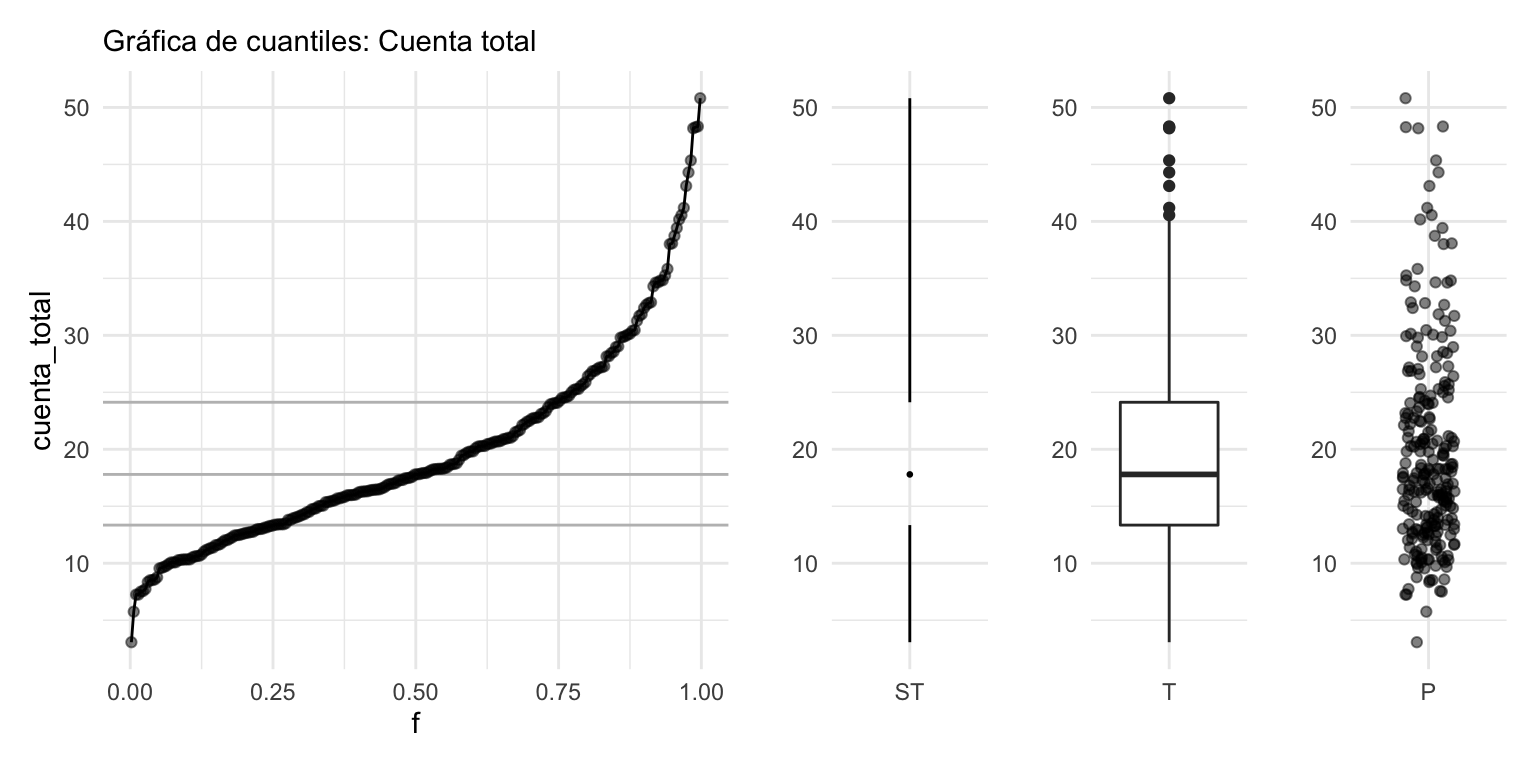
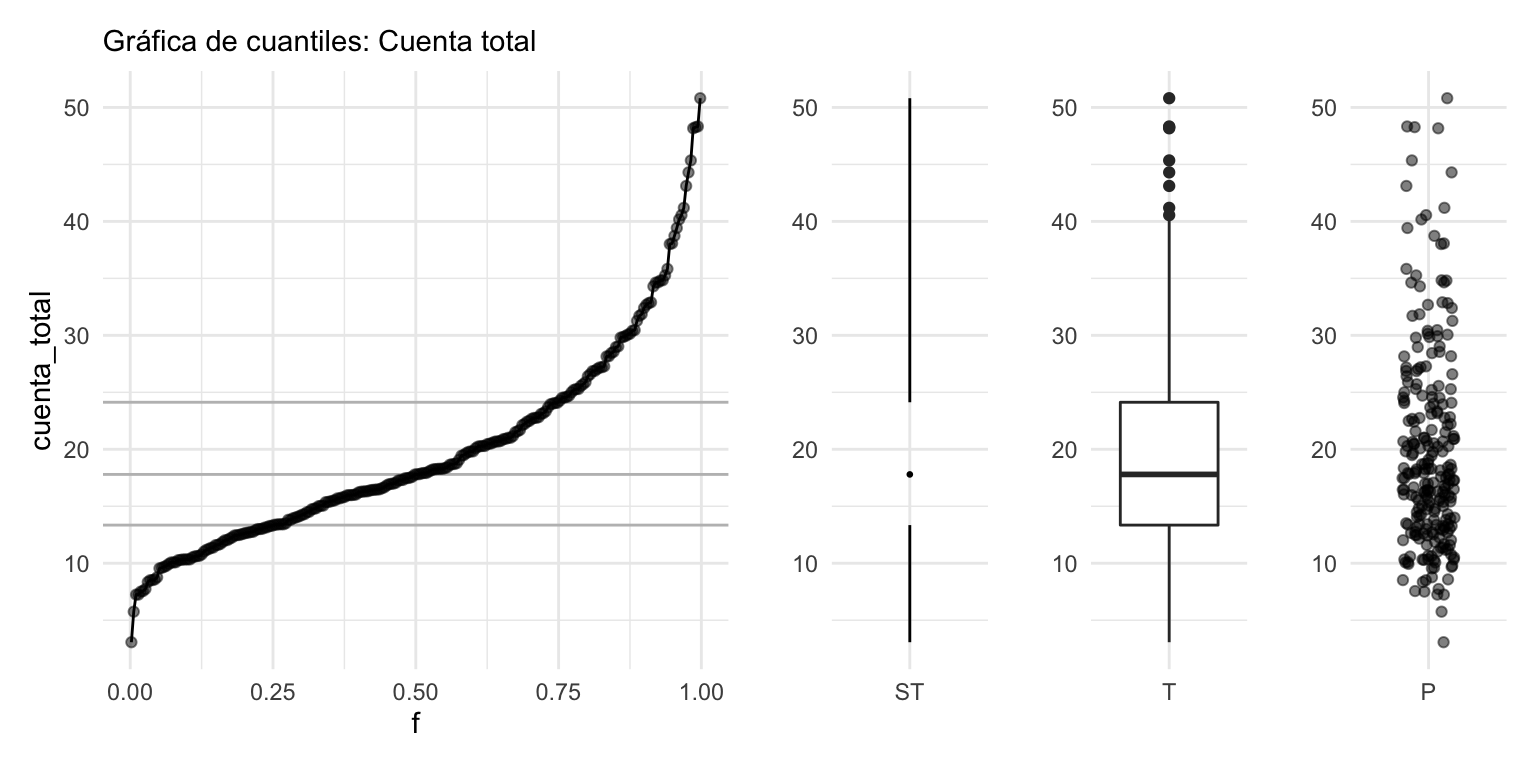
tereom published a site update

Changed region(s): [[0.9062, 0.1562, 0.9688, 0.8438]]

diff --git a/analisis-exploratorio.html b/analisis-exploratorio.html
@@ -285,84 +285,84 @@ cuatro días consecutivos:</p>
 </thead>
 <tbody>
 <tr class="odd">
-<td align="right">16.40</td>
-<td align="right">2.50</td>
-<td align="left">Yes</td>
-<td align="left">Jue</td>
-<td align="left">Comida</td>
-<td align="right">2</td>
-</tr>
-<tr class="even">
-<td align="right">10.63</td>
+<td align="right">14.52</td>
 <td align="right">2.00</td>
-<td align="left">Yes</td>
-<td align="left">Sab</td>
-<td align="left">Cena</td>
-<td align="right">2</td>
-</tr>
-<tr class="odd">
-<td align="right">27.28</td>
-<td align="right">4.00</td>
-<td align="left">Yes</td>
-<td align="left">Vie</td>
-<td align="left">Cena</td>
-<td align="right">2</td>
-</tr>
-<tr class="even">
-<td align="right">26.59</td>
-<td align="right">3.41</td>
-<td align="left">Yes</td>
-<td align="left">Sab</td>
-<td align="left">Cena</td>
-<td align="right">3</td>
-</tr>
-<tr class="odd">
-<td align="right">20.76</td>
-<td align="right">2.24</td>
 <td align="left">No</td>
-<td align="left">Dom</td>
-<td align="left">Cena</td>
+<td align="left">Jue</td>
+<td align="left">Comida</td>
 <td align="right">2</td>
 </tr>
 <tr class="even">
-<td align="right">28.15</td>
-<td align="right">3.00</td>
-<td align="left">Yes</td>
-<td align="left">Sab</td>
-<td align="left">Cena</td>
-<td align="right">5</td>
-</tr>
-<tr class="odd">
-<td align="right">14.31</td>
-<td align="right">4.00</td>
-<td align="left">Yes</td>
-<td align="left">Sab</td>
-<td align="left">Cena</td>
-<td align="right">2</td>
-</tr>
-<tr class="even">
-<td align="right">19.81</td>
-<td align="right">4.19</td>
-<td align="left">Yes</td>
+<td align="right">10.33</td>
+<td align="right">2.00</td>
+<td align="left">No</td>
 <td align="left">Jue</td>
 <td align="left">Comida</td>
 <td align="right">2</td>
 </tr>
 <tr class="odd">
-<td align="right">20.69</td>
-<td align="right">2.45</td>
+<td align="right">19.82</td>
+<td align="right">3.18</td>
+<td align="left">No</td>
+<td align="left">Sab</td>
+<td align="left">Cena</td>
+<td align="right">2</td>
+</tr>
+<tr class="even">
+<td align="right">15.95</td>
+<td align="right">2.00</td>
+<td align="left">No</td>
+<td align="left">Jue</td>
+<td align="left">Comida</td>
+<td align="right">2</td>
+</tr>
+<tr class="odd">
+<td align="right">13.03</td>
+<td align="right">2.00</td>
+<td align="left">No</td>
+<td align="left">Jue</td>
+<td align="left">Comida</td>
+<td align="right">2</td>
+</tr>
+<tr class="even">
+<td align="right">18.35</td>
+<td align="right">2.50</td>
 <td align="left">No</td>
 <td align="left">Sab</td>
 <td align="left">Cena</td>
 <td align="right">4</td>
 </tr>
+<tr class="odd">
+<td align="right">13.37</td>
+<td align="right">2.00</td>
+<td align="left">No</td>
+<td align="left">Sab</td>
+<td align="left">Cena</td>
+<td align="right">2</td>
+</tr>
 <tr class="even">
-<td align="right">25.28</td>
-<td align="right">5.00</td>
+<td align="right">20.49</td>
+<td align="right">4.06</td>
 <td align="left">Yes</td>
 <td align="left">Sab</td>
 <td align="left">Cena</td>
 <td align="right">2</td>
+</tr>
+<tr class="odd">
+<td align="right">22.76</td>
+<td align="right">3.00</td>
+<td align="left">No</td>
+<td align="left">Jue</td>
+<td align="left">Comida</td>
+<td align="right">2</td>
+</tr>
+<tr class="even">
+<td align="right">25.29</td>
+<td align="right">4.71</td>
+<td align="left">No</td>
+<td align="left">Dom</td>
+<td align="left">Cena</td>
+<td align="right">4</td>
 </tr>
 </tbody>
 </table>

diff --git a/02-exploratorio.md b/02-exploratorio.md
@@ -82,16 +82,16 @@ sample_n(propinas, 10) %>% formatear_tabla()
 
 | cuenta_total| propina|fumador |dia |momento | num_personas|
 |------------:|-------:|:-------|:---|:-------|------------:|
-|        16.40|    2.50|Yes     |Jue |Comida  |            2|
-|        10.63|    2.00|Yes     |Sab |Cena    |            2|
-|        27.28|    4.00|Yes     |Vie |Cena    |            2|
-|        26.59|    3.41|Yes     |Sab |Cena    |            3|
-|        20.76|    2.24|No      |Dom |Cena    |            2|
-|        28.15|    3.00|Yes     |Sab |Cena    |            5|
-|        14.31|    4.00|Yes     |Sab |Cena    |            2|
-|        19.81|    4.19|Yes     |Jue |Comida  |            2|
-|        20.69|    2.45|No      |Sab |Cena    |            4|
-|        25.28|    5.00|Yes     |Sab |Cena    |            2|
+|        14.52|    2.00|No      |Jue |Comida  |            2|
+|        10.33|    2.00|No      |Jue |Comida  |            2|
+|        19.82|    3.18|No      |Sab |Cena    |            2|
+|        15.95|    2.00|No      |Jue |Comida  |            2|
+|        13.03|    2.00|No      |Jue |Comida  |            2|
+|        18.35|    2.50|No      |Sab |Cena    |            4|
+|        13.37|    2.00|No      |Sab |Cena    |            2|
+|        20.49|    4.06|Yes     |Sab |Cena    |            2|
+|        22.76|    3.00|No      |Jue |Comida  |            2|
+|        25.29|    4.71|No      |Dom |Cena    |            4|
 
 
 Aquí la unidad de observación es una cuenta particular. Tenemos tres mediciones
